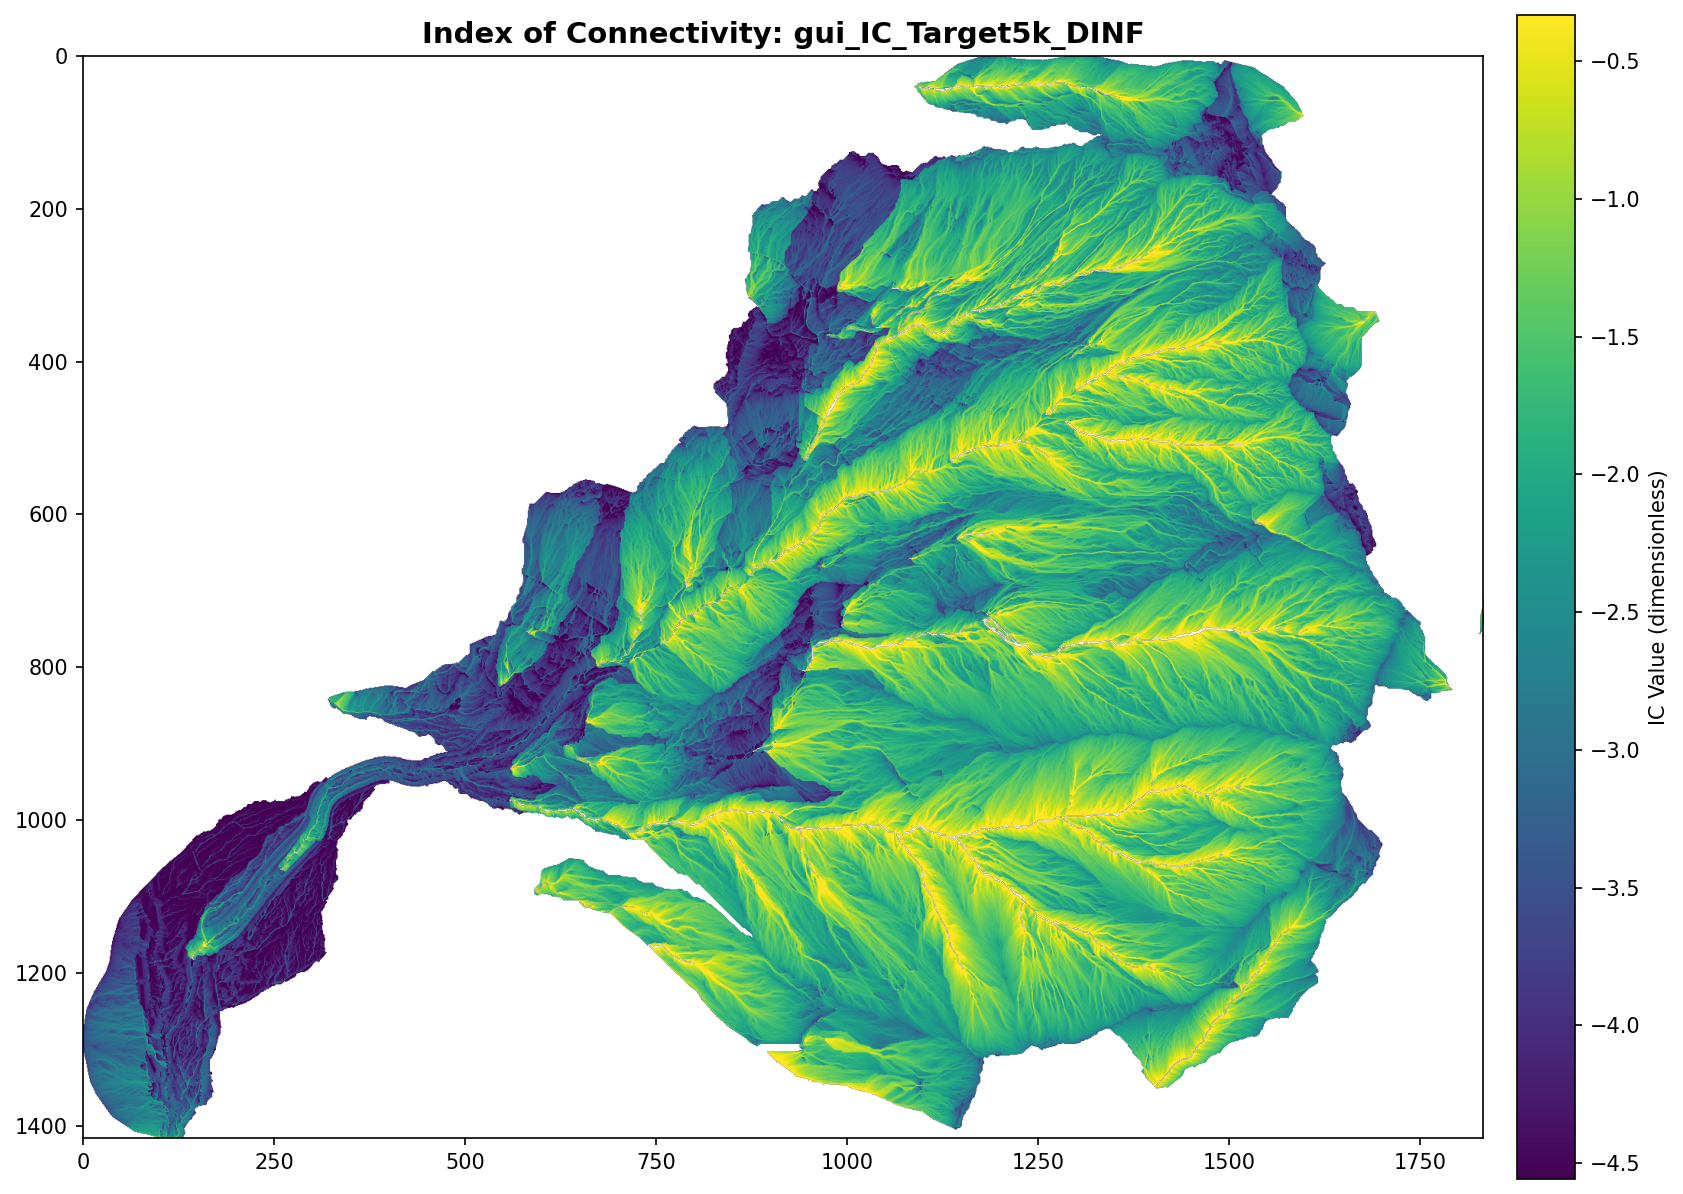
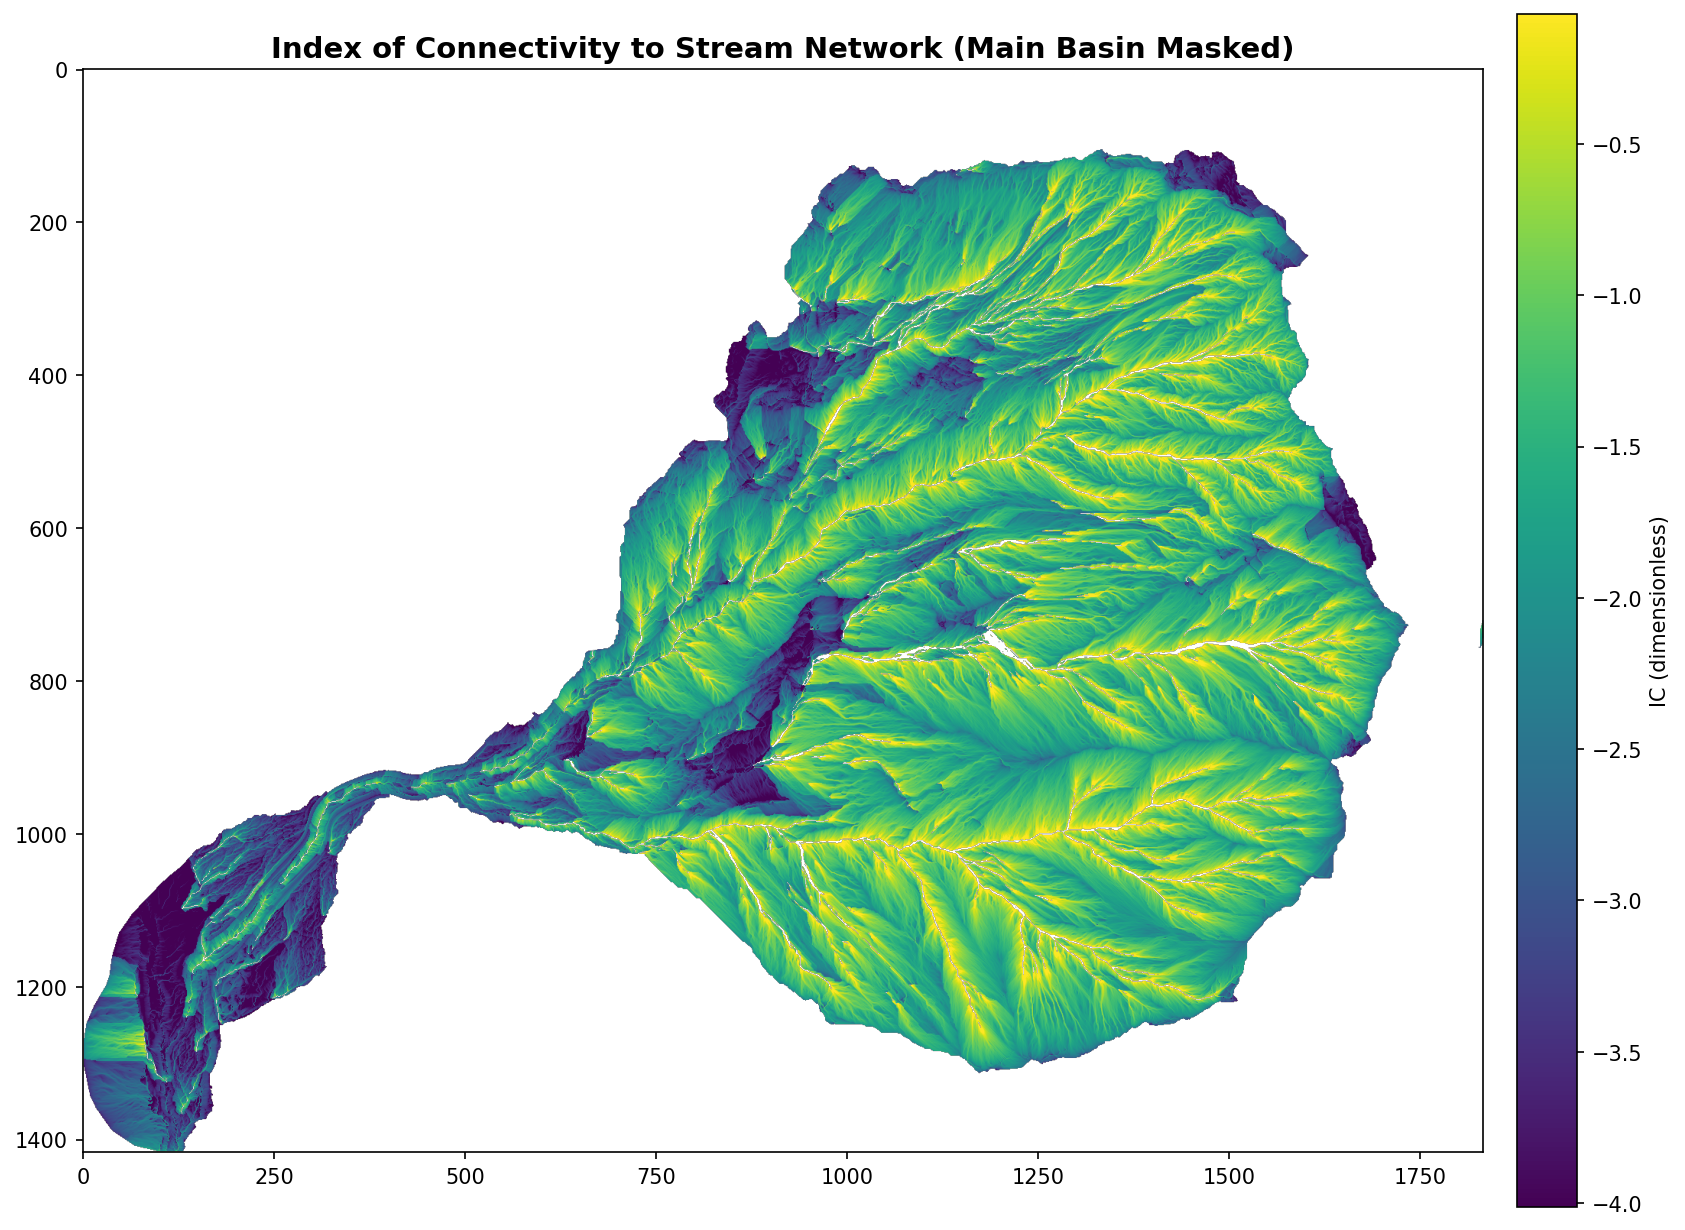
Update README target figure with masked 1k-stream result
- Replace target example image using gui_IC_maskedTarget1k_v5.tif
- Use clear figure naming (no filename-as-title)
- Update target-mode parameters and statistics (threshold 1000, main-basin masking)

diff --git a/README.md b/README.md
@@ -417,23 +417,24 @@ with `DepressionFinderAndRouter` and surface roughness impedance weights (Cavall
 - Ddn extremely high (up to 86,117 m) in low-connectivity areas
 - IC values are consistently negative in this steep, high-relief basin due to high downstream impedance
 
-#### IC toward 5,000-cell stream network (auto-detected from flow accumulation)
+#### IC toward 1,000-cell stream network (main basin masked)
 
-![IC Target 5k DINF](examples/IC_Target5k_DINF.png)
+![Moscardo Target-Mode IC (main basin masked)](examples/IC_Target5k_DINF.png)
 
 **Parameters:**
 - Flow director: D-infinity
 - Depression handler: DepressionFinderAndRouter
 - Weights: Surface roughness impedance (Cavalli et al. 2008)
-- Target: Auto-detected stream network (cells draining ≥5,000 upslope cells)
+- Main-basin-only masking: Enabled (dominant outlet footprint)
+- Target: Auto-detected stream network (cells draining ≥1,000 upslope cells)
 - Grid: 1,417 rows × 1,833 cols @ 2 m resolution
 
 **IC statistics:**
-- Min / Max: –6.64 / +1.51
-- Mean ± Std: –2.12 ± 1.04
-- Valid cells: 1,269,193 / 2,589,910 (49%)
-- IC range spans negative and positive values, indicating spatially variable connectivity to the stream network
-- Higher IC values in valley bottoms and contributing areas directly connected to streams
+- Min / Max: –6.30 / +1.24
+- Mean ± Std: –1.64 ± 0.93
+- Valid cells: 1,037,176 / 2,589,910 (40%)
+- Main-basin masking removes neighbouring catchments outside the dominant outlet basin
+- IC range remains negative-to-positive, highlighting spatially variable connectivity to the stream network
 
 ---
 
